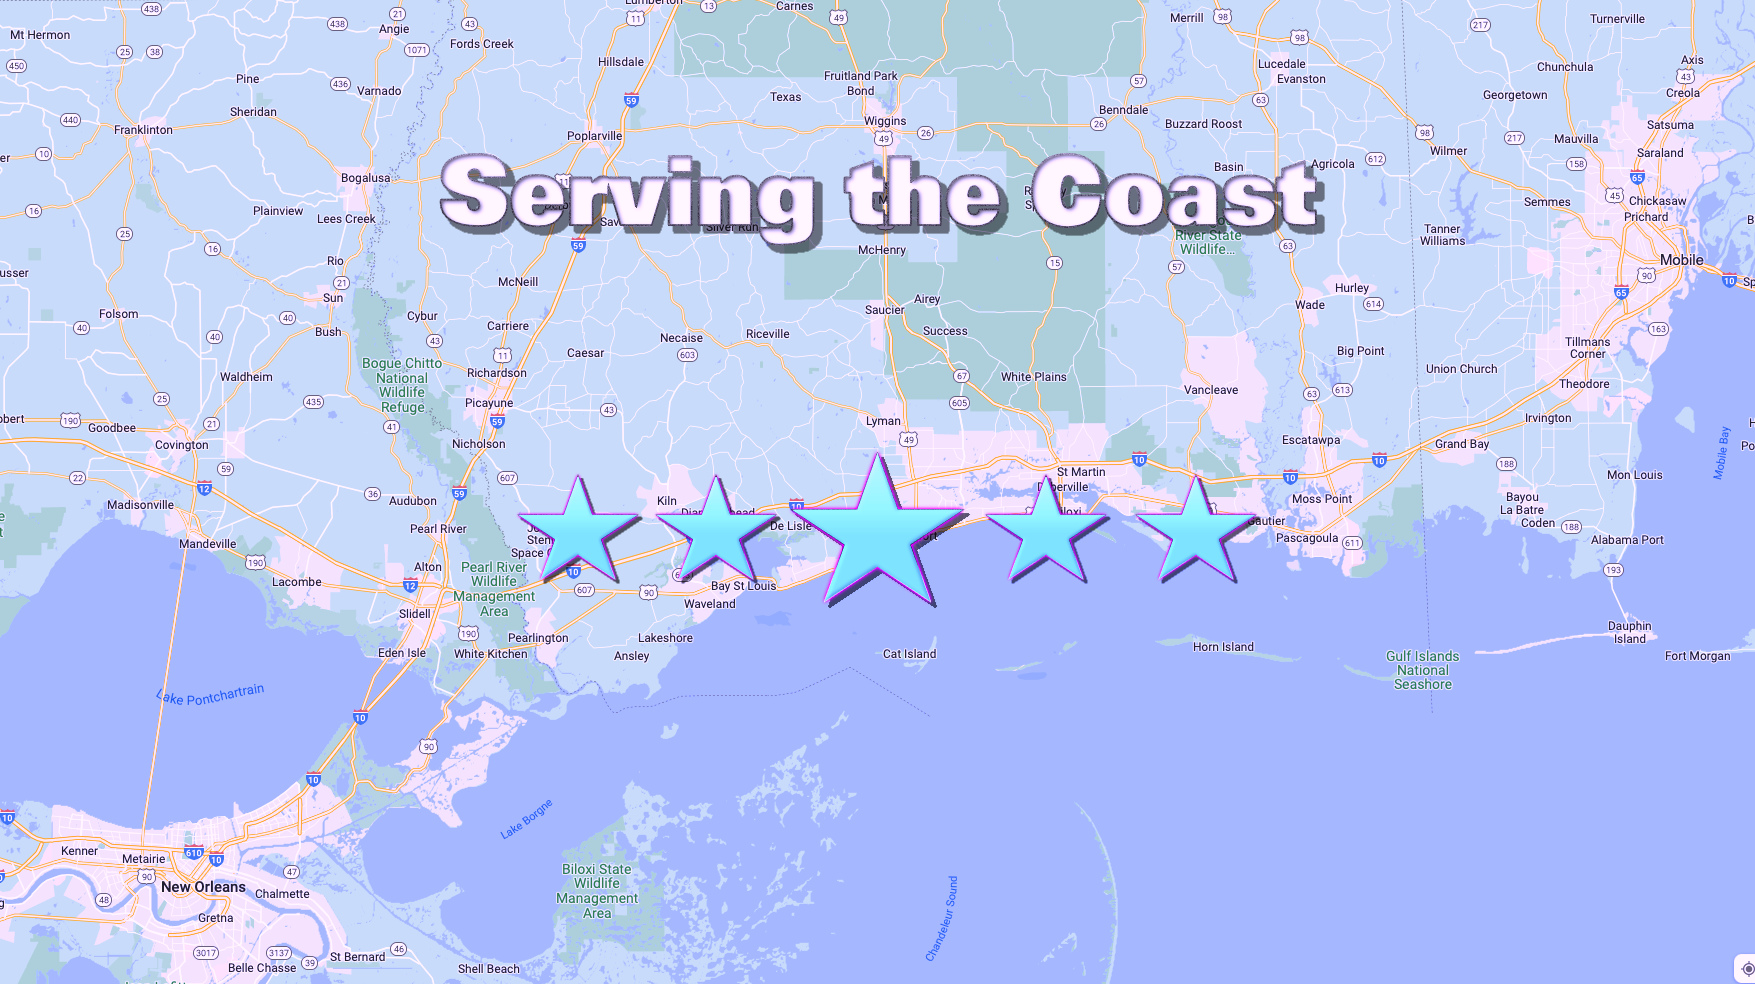
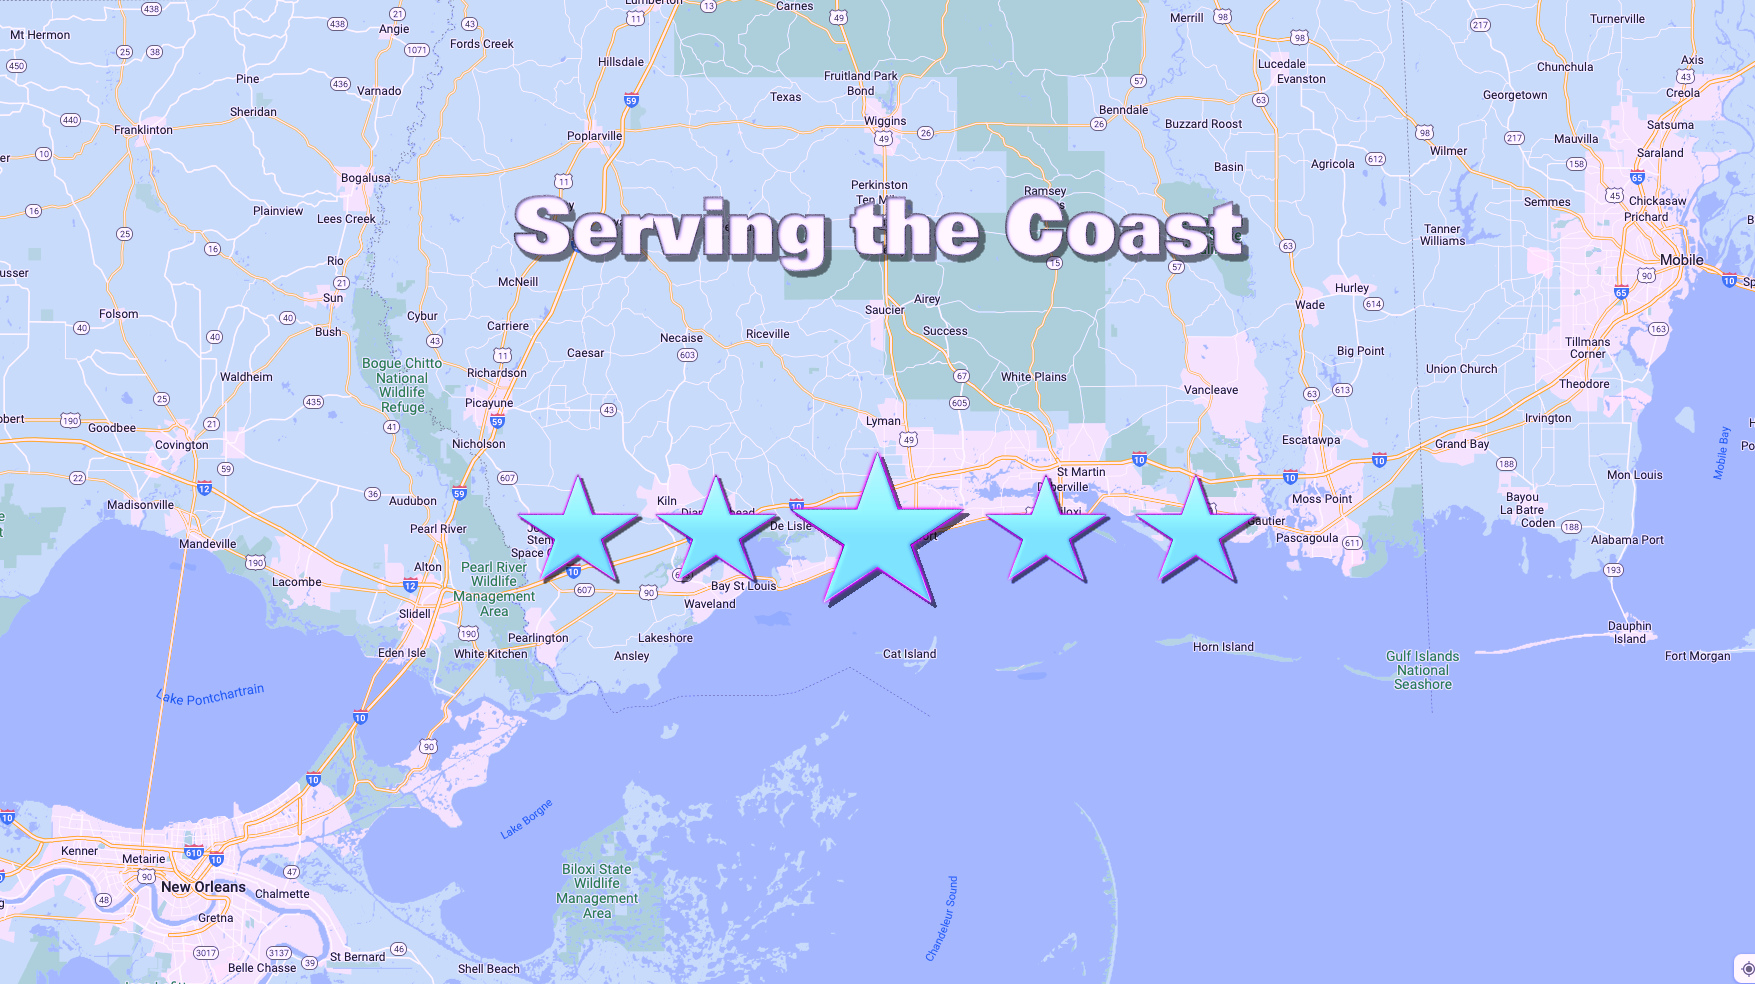
home lauout

Changed region(s): [[0.2462, 0.1524, 0.7692, 0.3049]]

diff --git a/src/templates/index-page.js b/src/templates/index-page.js
@@ -472,11 +472,11 @@ function Iframer() {
 
             playsinline
             playIcon={
-              <button aria-label="Click To Play" className="clickplay" style={{position:'absolute', zIndex:'5', top:'0', border:'1px solid transparent', width:'100vw', height:'100%', background:'', color:'', fontSize:'18px', textAlign:'center', display:'flex', flexDirection:'column', verticalAlign:'', justifyContent:'center', alignItem:'center', paddingTop:''}}>
+              <button aria-label="Click To Play" className="clickplay" style={{position:'absolute', zIndex:'5', top:'', border:'1px solid transparent', width:'100vw', height:'', background:'', color:'', fontSize:'18px', textAlign:'center', display:'flex', flexDirection:'column', verticalAlign:'', justifyContent:'center', alignItem:'center', paddingTop:''}}>
 
             
   
-            <div style={{position:'fixed', width:'100vw', height:'', top:'5px', margin:'0', zIndex:'1', display:'flex', justifyContent:'center', background:'transparent !important',}}>
+            <div style={{position:'fixed', width:'100vw', height:'', top:'', margin:'0', zIndex:'1', display:'flex', justifyContent:'center', background:'transparent !important',}}>
     {/* <img className="homepage-bg" src="../../assets/daniel-smyth-PcvlAQKAPXk-unsplash.jpg" alt="Hytron" style={{ width:'100%', height:'100vh', filter:'drop-shadow(2px 2px 2px #000)', background:'transparent !important',}} /> */}
 
     {/* <StaticImage placeholder="blurred" loading="eager" src="../../static/assets/daniel-smyth-PcvlAQKAPXk-unsplash.jpg" alt="Twilightscapes Default Image" style={{ width:'100%', height:'100%', filter:'drop-shadow(2px 2px 2px #000)', background:'transparent !important',}} /> */}
@@ -701,7 +701,7 @@ alt="" src="../../static/assets/HICKORY-SMOKED-OF-WS.jpg" />
 <section style={{ display:'',}}>
   <article>
 
-  <div className='stack-layout' style={{ display:'', position:'relative', top:'0', zIndex:'0', height:'', overflow:'hidden', filter: 'drop-shadow(0 0 20px #000)' }}>
+  <div className='stack-layout' style={{ display:'', position:'relative', top:'', zIndex:'0', height:'', overflow:'hidden', filter: 'drop-shadow(0 0 20px #000)' }}>
 
 
 
@@ -711,7 +711,7 @@ alt="" src="../../static/assets/HICKORY-SMOKED-OF-WS.jpg" />
               image={Image}
               alt={frontmatter.title + " - Featured image"}
               className="featured-image1 layer1"
-              style={{height:'auto', width:'100vw', maxHeight:'', position:'absolute', top:'', zIndex:'0', objectFit:'contain', overflow:'', border:'0px solid red !important'}}
+              style={{height:'100%', width:'100vw', maxHeight:'', position:'absolute', top:'', zIndex:'0', objectFit:'contain', overflow:'', border:'0px solid red !important'}}
             />
             
           ) : (
@@ -1140,14 +1140,12 @@ position:'relative', height:'', width:'', overflow:'', display:'flex', gap:'20px
 
 
 
-<div style={{position:'relative', top:'', margin:'20vh 0 40vh 0', padding:'0',  width:'100%', height:'30vh', border:'1px solid #333'}}>
+<div style={{position:'relative', top:'', margin:'1vh 0 10vh 0', padding:'10vh 0',  width:'100%', height:'', border:'0px solid #333'}}>
 {/* <img className="homepage-bg" src="assets/serving-the-coast.jpg" width="100%" height="100%" alt="VidSock" style={{ width:'100%', maxWidth:'100vw', filter:'drop-shadow(2px 2px 2px #000)', background:'transparent !important',}} /> */}
 
-<StaticImage src="../../static/assets/serving-the-coast.jpg" alt="Twilightscapes Default Image" style={{height:'100vh', maxHeight:'100vh', position:'relative', zIndex:'0', top:'0', border:'0px solid !important', objectFit:'cover',}} />
+<StaticImage src="../../static/assets/serving-the-coast.jpg" alt="Twilightscapes Default Image" style={{height:'100%', maxHeight:'100vh', position:'relative', zIndex:'0', top:'0', border:'0px solid !important', objectFit:'contain',}} />
 
-<br />
-<SocialMe />
-</div>
+
 
 
 
@@ -1159,7 +1157,82 @@ position:'relative', height:'', width:'', overflow:'', display:'flex', gap:'20px
 
 
 
-<div className="spacer99"></div>
+
+{/* <h3 style={{textAlign:'center', fontSize:'clamp(1.3rem, 1.1vw + 1.5rem, 3rem)', margin:'0 auto 2rem auto'}}>Todd's Other Work</h3> */}
+ 
+ <div className="flexbutt noexit print" style={{
+position:'relative', height:'', width:'', overflow:'', display:'flex', gap:'20px', margin:'0 auto 2rem auto', padding:'2rem', background:'#333' }}>
+
+
+    
+    <div className="flexcheek network" style={{height:'', margin:'', display:'flex', flexDirection:'column', justifyContent:'space-between', textAlign:'center'}}>
+
+    <h2>Hours</h2>
+    Mon - Fri
+ 8:00 am - 4:00 pm
+<br />
+Sat
+Closed<br />
+Sun
+Closed<br />
+<br />
+Appointments available for evenings and weekends.
+    {/* <br /><br />
+    <div style={{textAlign:'center',}}><a className="post-card button " href="https://urbanfetish.com" target="_blank" rel="noopener noreferrer" style={{textDecoration:'none', color:'inherit',}}>UrbanFetish.com</a></div> */}
+    </div>
+
+
+
+
+
+<div className="flexcheek network" style={{height:'', margin:'', display:'flex', flexDirection:'column', justifyContent:'space-between', textAlign:'center'}}>
+    {/* <a className="noexit" href="https://toddlambert.com" target="_blank" rel="noopener noreferrer" style={{textDecoration:'none', color:'inherit',}}>
+    <StaticImage src="../../static/assets/toddlambert-promo-banner.png" alt="Todd Lambert is an independent artist, creator, design, developer and generally a unicorn" style={{borderRadius:'8px'}}  /></a>
+    <br /> */}
+    <h2>Service Area</h2>
+Gulf Coast and Surrounding Areas
+Metro New Orleans and Surrounding Areas
+Northshore and Surrounding Areas
+    {/* <br /><br />
+    <div style={{textAlign:'center',}}><a className="post-card button " href="https://toddlambert.com" target="_blank" rel="noopener noreferrer" style={{textDecoration:'none', color:'inherit',}}>ToddLambert.com</a></div> */}
+    </div>
+
+
+    <div className="flexcheek network" style={{height:'', margin:'', display:'flex', flexDirection:'column', justifyContent:'space-between', textAlign:'center'}}>
+
+   
+    <h2>PHONE / EMAIL</h2>
+Main: (228) 231-1630<br />
+Local: (228) 231-1630<br />
+Alternate: (504) 901-1599<br />
+{/* <br />
+gulfsouthroofs@gmail.com */}
+
+    {/* <br /><br />
+    <div style={{textAlign:'center',}}><a className="post-card button " href="https://vidsocks.com" target="_blank" rel="noopener noreferrer" style={{textDecoration:'none', color:'inherit',}}>VidSocks.com</a></div> */}
+    </div>
+
+
+
+
+
+
+
+
+
+
+
+
+
+</div>
+
+
+
+<br /><br />
+<SocialMe />
+</div>
+
+<div className="spacer33"></div>
 <Footer />
     </Layout>
   )
